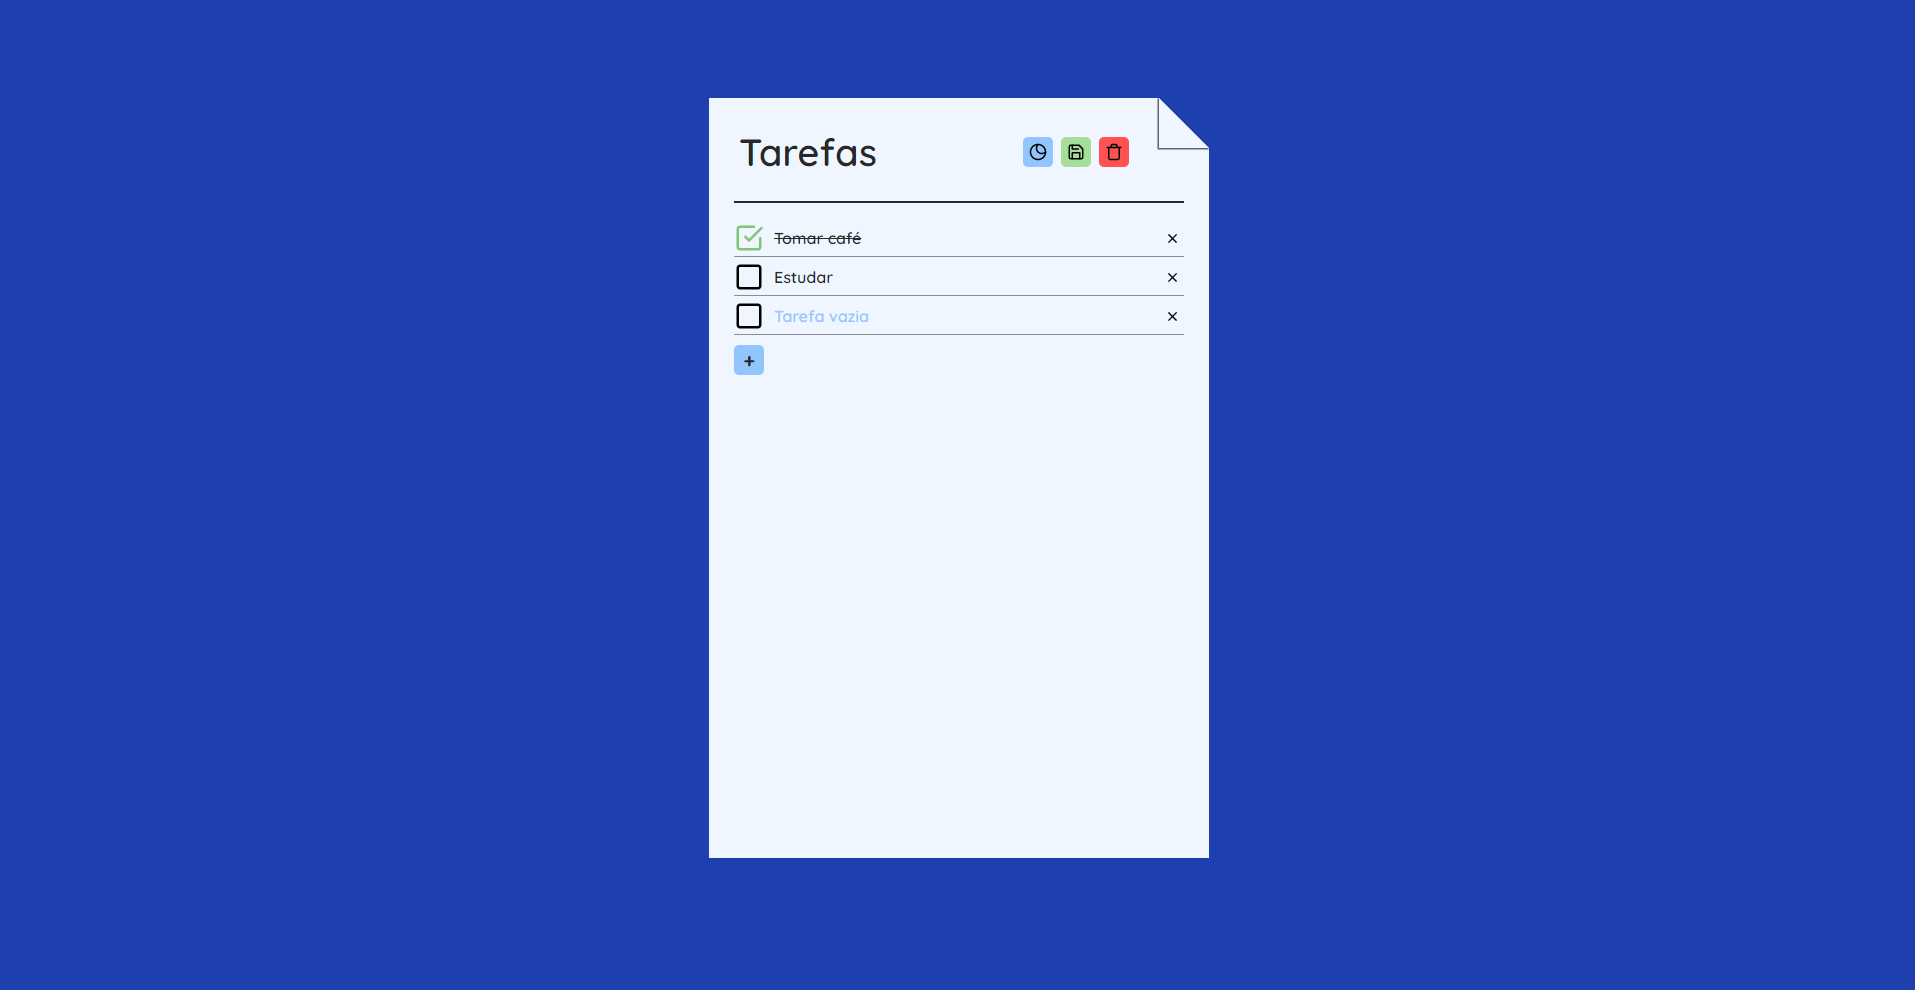
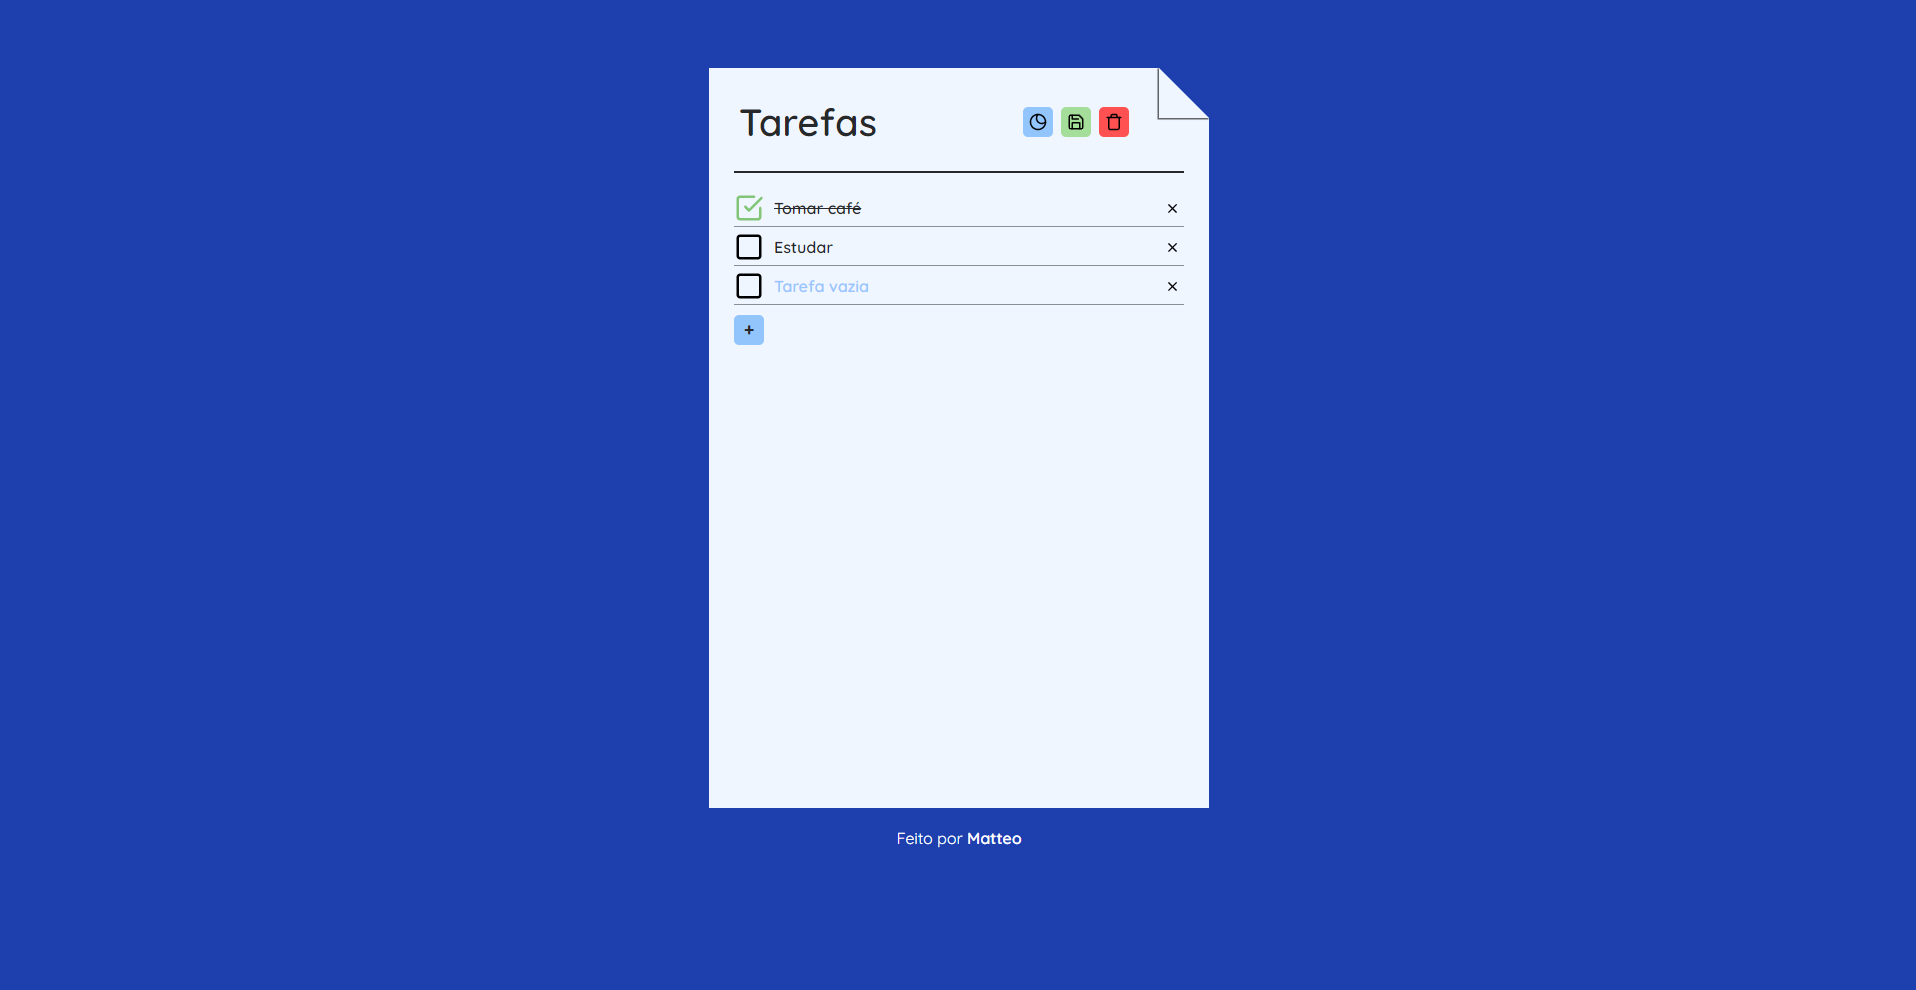
centralize button

Changed region(s): [[0.3697, 0.0606, 0.647, 0.3939], [0.3697, 0.8182, 0.647, 0.8788], [0.5854, 0.2424, 0.6162, 0.2727]]

diff --git a/style.css b/style.css
@@ -355,15 +355,20 @@ ul {
   pointer-events: none;
 }
 
+button.add p {
+  margin-bottom: 1px;
+}
+
 button.add {
   all: unset;
   color: var(--primary-color);
   background-color: var(--color-button);
   cursor: pointer;
 
-  display: grid;
-  place-items: center;
-  font-size: 20px;
+  display: flex;
+  align-items: center;
+  justify-content: center;
+  font-size: 18px;
   font-weight: 700;
 
   border-radius: 5px;

diff --git a/index.html b/index.html
@@ -70,7 +70,7 @@
 
             </div>
 
-            <button class="add" onclick="newTask()"> + </button>
+            <button class="add" onclick="newTask()"><p>+</p></button>
           </ul>
         </form>
       </main>
